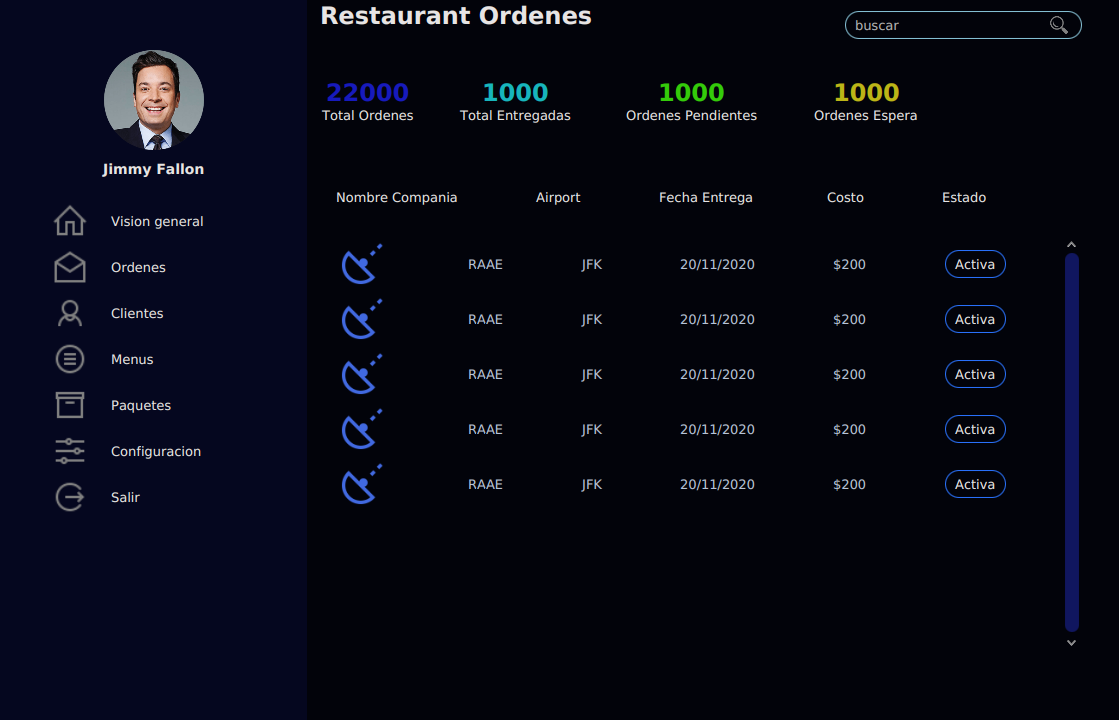
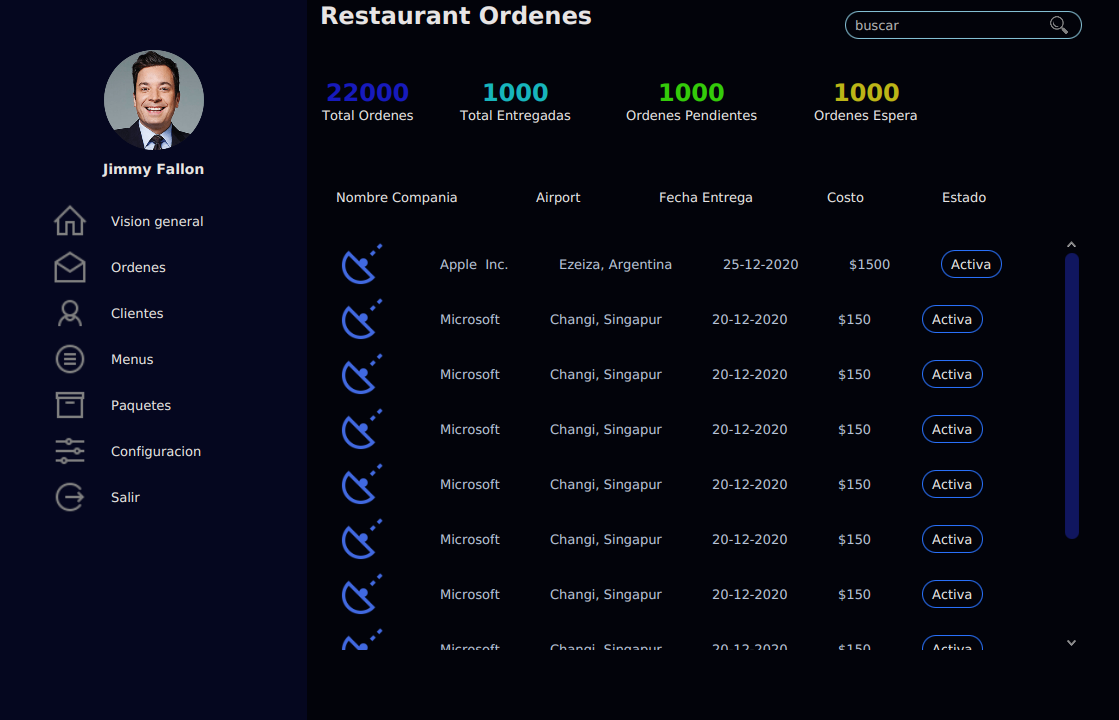
Se agregaron clases Model y Controller para implementar el modelo arquitectonico MVC, tambien se modifico los margenes de la vista Item

diff --git a/Aplicacion/src/App/java/controller/ControllerMain.java b/Aplicacion/src/App/java/controller/ControllerMain.java
@@ -1,6 +1,7 @@
 package App.java.controller;
 
 import com.jfoenix.controls.JFXButton;
+
 import javafx.application.Platform;
 import javafx.event.ActionEvent;
 import javafx.fxml.FXML;
@@ -16,7 +17,8 @@ import java.io.IOException;
 import java.net.URL;
 import java.util.ResourceBundle;
 
-public class ControllerMain extends ControllerItem implements Initializable {
+public class ControllerMain extends Controller implements Initializable {
+
 
 	public static final String ITEM = "/App/resources/fxml/Item.fxml";
 	
@@ -42,8 +44,21 @@ public class ControllerMain extends ControllerItem implements Initializable {
     public void initialize(URL location, ResourceBundle resources) {
         scrollPane.setHbarPolicy(ScrollPane.ScrollBarPolicy.NEVER);
 
-        Node [] nodes = new Node[5];
+        Node [] nodes = new Node[10];
         for (int i = 0; i < nodes.length ; i++) {
+        	 if(i == 0) {
+                 getModelo().setNombreCompania("Apple  Inc.");
+                 getModelo().setNombreAirport("Ezeiza, Argentina");
+                 getModelo().setCosto("$1500");
+                 getModelo().setFecha("25-12-2020");
+
+             } else {
+                 getModelo().setNombreCompania("Microsoft");
+                 getModelo().setNombreAirport("Changi, Singapur");
+                 getModelo().setCosto("$150");
+                 getModelo().setFecha("20-12-2020");
+
+             }
             try {
                 final int j = i;
                 nodes[i] = FXMLLoader.load(getClass().getResource(ControllerMain.ITEM));
@@ -55,8 +70,9 @@ public class ControllerMain extends ControllerItem implements Initializable {
                 nodes[i].setOnMouseExited(event -> {
                     nodes[j].setStyle("-fx-background-color: #02030A");
                 });
-                               
+                          
                 pnItems.getChildren().add(nodes[i]);
+               
             } catch (IOException e) {
                 e.printStackTrace();
             }
@@ -93,5 +109,4 @@ public class ControllerMain extends ControllerItem implements Initializable {
             pnlConfiguracion.toFront();
         }
     }
-
 }

diff --git a/Aplicacion/src/App/java/controller/ControllerItem.java b/Aplicacion/src/App/java/controller/ControllerItem.java
@@ -7,63 +7,20 @@ import javafx.fxml.FXML;
 import javafx.fxml.Initializable;
 import javafx.scene.control.Label;
 
-public class ControllerItem implements Initializable {
+public class ControllerItem extends Controller implements Initializable {
 
     @FXML private Label nombreCompania;
     @FXML private Label nombreAirport;
     @FXML private Label fecha;
     @FXML private Label costo;
-	
     
-    public Label getNombreCompania() {
-		return nombreCompania;
-	}
-
-
-	public void setNombreCompania(Label nombreCompania) {
-		this.nombreCompania = nombreCompania;
-	}
-
-
-	public Label getNombreAirport() {
-		return nombreAirport;
-	}
-
-
-	public void setNombreAirport(Label nombreAirport) {
-		this.nombreAirport = nombreAirport;
-	}
-
-
-	public Label getFecha() {
-		return fecha;
-	}
-
-
-	public void setFecha(Label fecha) {
-		this.fecha = fecha;
-	}
-
-
-	public Label getCosto() {
-		return costo;
-	}
-
-
-	public void setCosto(Label costo) {
-		this.costo = costo;
-	}
-
-	public void setLabelNombreCompania(String name) {
-		nombreCompania.setText(name);
-	}
-
 	@Override
 	public void initialize(URL location, ResourceBundle resources) {
 		
-		//nombreCompania.setText("Apple");
-		
-	}
-    
-    
+		nombreCompania.setText(getModelo().getNombreCompania());
+		nombreAirport.setText(getModelo().getNombreAirport());
+		fecha.setText(getModelo().getFecha());
+		costo.setText(getModelo().getCosto());
+
+	}    
 }

diff --git a/Aplicacion/src/App/java/model/Model.java b/Aplicacion/src/App/java/model/Model.java
@@ -1,5 +1,61 @@
 package App.java.model;
 
+import java.util.ArrayList;
+import java.util.List;
+
 public class Model {
 
+	private String nombreCompania;
+	private String nombreAirport;
+	private String fecha;
+	private String costo;
+	private static List<String> datosCliente;
+	
+	public Model() {
+		
+		datosCliente = new ArrayList<String>();
+	}
+
+	public String getNombreCompania() {
+		return nombreCompania;
+	}
+
+	public void setNombreCompania(String nombreCompania) {
+		this.nombreCompania = nombreCompania;
+	}
+
+	public String getNombreAirport() {
+		return nombreAirport;
+	}
+
+	public void setNombreAirport(String nombreAirport) {
+		this.nombreAirport = nombreAirport;
+	}
+
+	public String getFecha() {
+		return fecha;
+	}
+
+	public void setFecha(String fecha) {
+		this.fecha = fecha;
+	}
+
+	public String getCosto() {
+		return costo;
+	}
+
+	public void setCosto(String costo) {
+		this.costo = costo;
+	}
+	
+	public void agregarDatos() {
+		datosCliente.add(getNombreCompania());
+		datosCliente.add(getNombreAirport());
+		datosCliente.add(getFecha());
+		datosCliente.add(getCosto());
+	}
+	
+	public void eliminarDatos() {
+		datosCliente.clear();
+	}	
 }

diff --git a/Aplicacion/src/App/java/Main.java b/Aplicacion/src/App/java/Main.java
@@ -1,5 +1,7 @@
 package App.java;
 
+import App.java.controller.Controller;
+import App.java.model.Model;
 import javafx.application.Application;
 import javafx.fxml.FXMLLoader;
 import javafx.scene.Parent;
@@ -12,8 +14,15 @@ public class Main extends Application {
 	public static final String VISTA_PRINCIPAL = "/App/resources/fxml/vistaPrincipal.fxml";
     private double x,y;
     
+    private Model modelo;
+    private Controller controlador;
+    
     @Override
     public void start(Stage primaryStage) throws Exception{
+    	modelo= new Model();
+    	controlador = new Controller();
+        controlador.setModelo(modelo);
+    	
         Parent root = FXMLLoader.load(getClass().getResource(Main.VISTA_PRINCIPAL));
         primaryStage.setScene(new Scene(root));
 

diff --git a/Aplicacion/src/App/java/controller/Controller.java b/Aplicacion/src/App/java/controller/Controller.java
@@ -1,0 +1,17 @@
+package App.java.controller;
+
+import App.java.model.Model;
+
+public class Controller {
+
+	private static Model modelo;
+
+	public void setModelo(Model modelo) {
+		Controller.modelo = modelo;		
+	}
+
+    public Model getModelo()
+    {
+    	return modelo;
+    }    
+}
